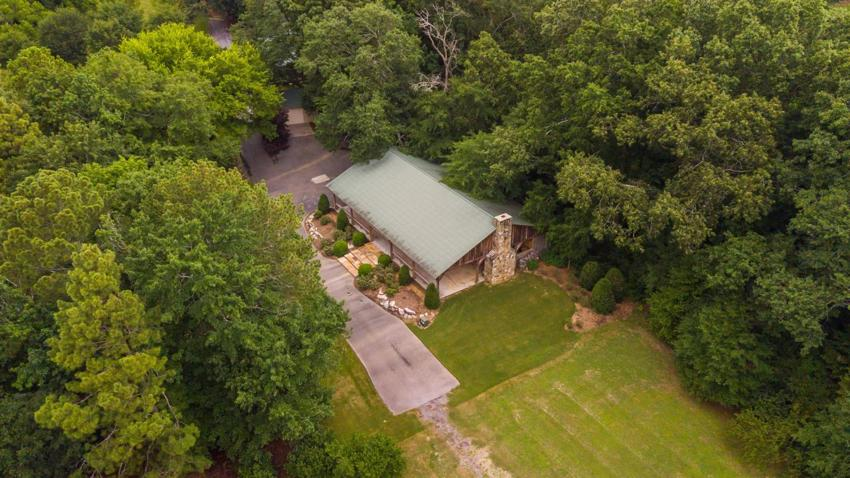
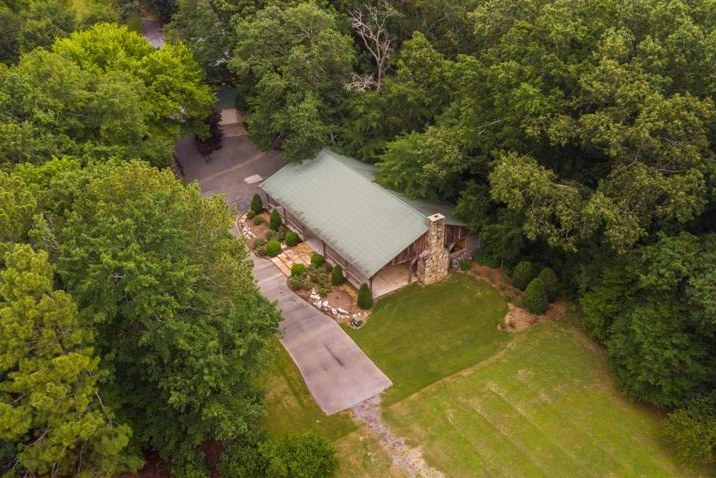
Pricing cards: level the 3rd image — aerial was 16:9 (1500x843) vs 3:2 neighbors; center-cropped to 3:2 in both resolutions, .tiers img now width:100% + aspect-ratio 3/2 so cards align with or without CSS cropping

diff --git a/index.html b/index.html
@@ -77,7 +77,7 @@
     .tiers { display: grid; grid-template-columns: repeat(3, 1fr); gap: 1.4rem; text-align: left; }
     .tiers .card { border: 1px solid var(--hair); border-radius: 10px; overflow: hidden; background: transparent; }
     .tiers figure { overflow: hidden; }
-    .tiers img { aspect-ratio: 4/3; object-fit: cover; transition: transform 0.5s; }
+    .tiers img { width: 100%; aspect-ratio: 3/2; object-fit: cover; transition: transform 0.5s; }
     .tiers .card:hover img { transform: scale(1.05); }
     .tiers .body { padding: 1.2rem 1.3rem 1.4rem; }
     .tiers h3 { font-weight: 400; font-size: 1.05rem; margin: 0 0 0.5rem; }
